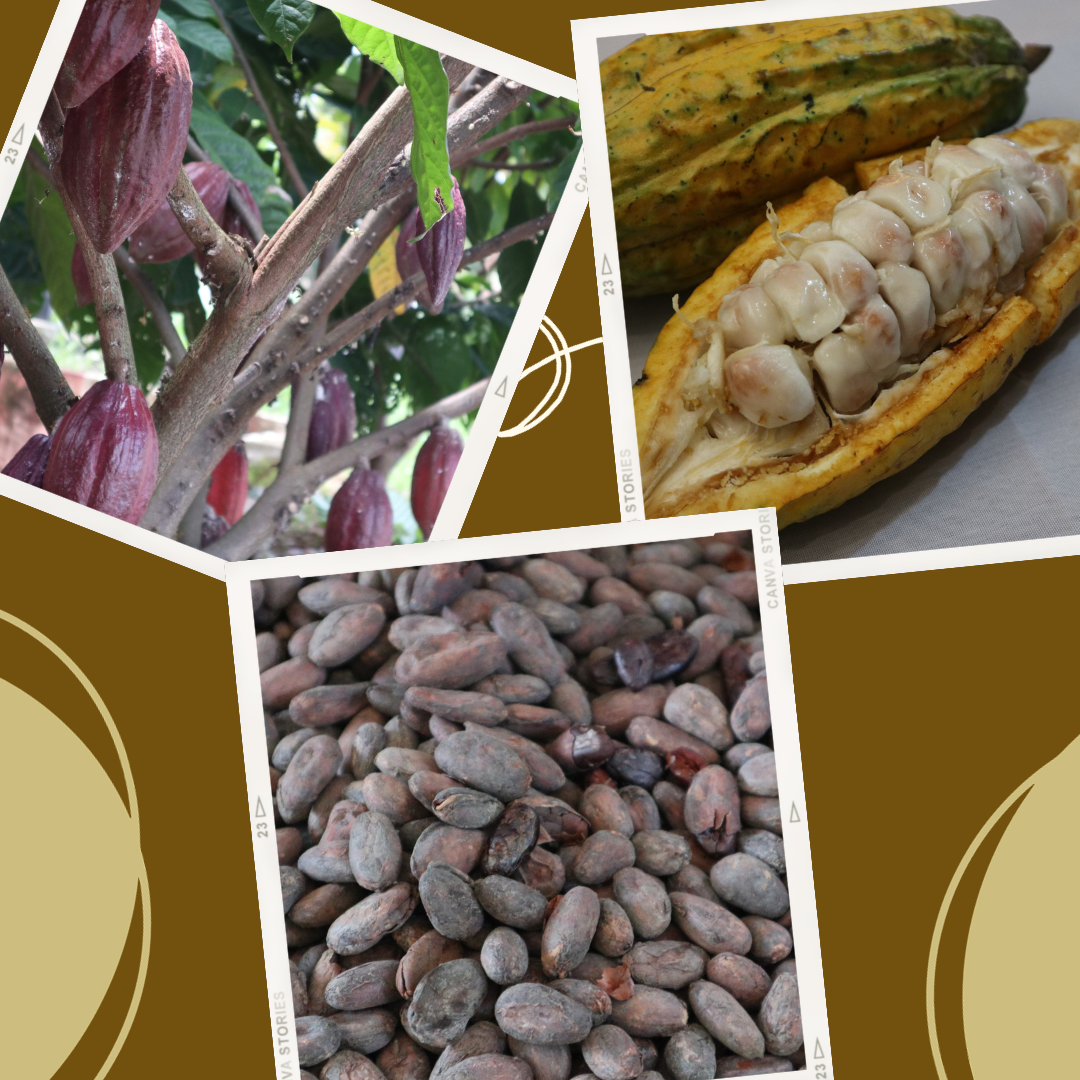
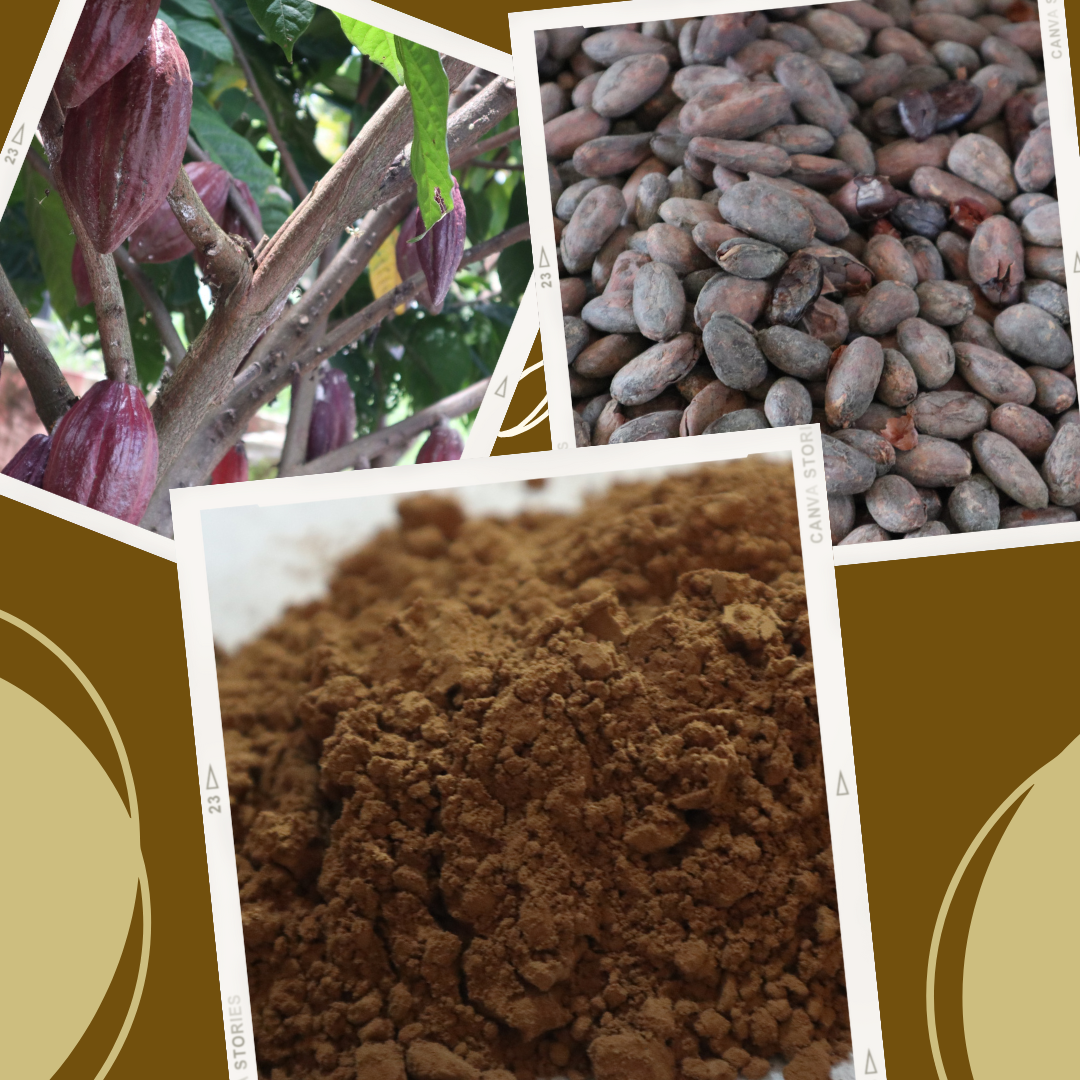
Mengubah isi konten Produk dan Service serta mengubah foto cocoa powder di halaman index dan id

diff --git a/id.html b/id.html
@@ -433,10 +433,10 @@
                                 </div>
                                 <div class="image-content">
                                     <h2 class="text-primary">
-                                        Sapu Lidi
+                                        Sapu Lidi (Kelapa dan Palem)
                                     </h2>
                                     <div class="description">
-                                        <p>Di Wambeso Ekspor, kami bangga menawarkan sapu berkualitas tinggi yang memadukan keahlian tradisional dengan standar modern. Sapu kami dibuat dengan cermat dari bahan yang tahan lama dan ramah lingkungan, memastikan kinerja luar biasa dan umur panjang. Kualifikasi sapu lidi yang kami tawarkan adalah panjang 100 cm dan jumlah 100 batang per ikat</p>
+                                        <p>Di Wambeso Ekspor, kami bangga menawarkan sapu lidi berkualitas tinggi yang menggabungkan keahlian tradisional dengan standar modern. Sapu lidi kami dibuat dengan cermat dari bahan yang tahan lama dan berkelanjutan, memastikan kinerja yang luar biasa dan umur yang panjang. Kualifikasi sapu lidi yang kami tawarkan adalah panjang: 100 cm, warna: coklat dan kuning kehijauan, kondisi: kering.</p>
                                     </div>
                                 </div>
                             </div>
@@ -449,10 +449,10 @@
                                 </div>
                                 <div class="image-content">
                                     <h2 class="text-primary">
-                                        Kakao
+                                        Bubuk Kakao
                                     </h2>
                                     <div class="description">
-                                        <p>Manjakan diri dengan cita rasa yang kaya dan tak tertahankan dari produk kakao premium kami dalam berbagai macam bubuk dan pasta di Wambeso Ekspor. Berasal dari perkebunan kakao terbaik, biji kakao kami dipanen dan diproses dengan hati-hati untuk mempertahankan rasa dan aroma aslinya. Mulai dari produsen coklat hingga pengrajin kuliner, kakao kami berfungsi sebagai bahan dasar pembuatan suguhan dan minuman.</p>
+                                        <p>Manjakan diri Anda dengan rasa yang kaya dan tak tertahankan dari produk bubuk kakao kami di Wambeso Export. Bersumber dari perkebunan kakao terbaik, biji kakao kami dipanen dan diproses dengan hati-hati untuk mempertahankan kadar antioksidan yang tinggi, dan kandungan lemak yang dapat mencegah penyakit kardiovaskular serta mempertahankan rasa dan aroma. Bubuk kakao kami dapat dinikmati mulai dari produsen cokelat hingga pengrajin kuliner, sebagai bahan dasar untuk membuat makanan dan minuman.</p>
                                     </div>
                                 </div>
                             </div>
@@ -465,10 +465,10 @@
                                 </div>
                                 <div class="image-content">
                                     <h2 class="text-primary">
-                                        Biji Kopi
+                                        Kopi (Biji dan Olahan)
                                     </h2>
                                     <div class="description">
-                                        <p>Bangkitkan indera Anda dengan kualitas olahan kopi yang luar biasa dari Wambeso Ekspor. Kami menghadirkan kepada Anda beragam biji kopi dengan profil rasa yang beragam, bersumber dari daerah penghasil biji kopi terbaik di seluruh Papua. Sediaan kopi kami dipilih dari biji kopi terbaik, diproses dengan cermat, dipanggang hingga sempurna, dan dikemas untuk menjaga kesegaran. Baik Anda penikmat kopi, pemilik kafe, atau penggila kopi, kopi kami menjanjikan pengalaman menyenangkan dan aromatik di setiap cangkirnya.</p>
+                                        <p>Bangkitkan indera perasa Anda dengan kualitas kopi olahan yang luar biasa dari Wambeso Export. Kami mempersembahkan kepada Anda berbagai jenis biji kopi arabika dan robusta, masing-masing dengan profil rasa yang beragam, yang berasal dari daerah penghasil biji kopi terbaik di seluruh Papua. Biji kopi kami dipilih dari biji kopi terbaik, diproses dengan cermat, dipanggang dengan sempurna, dan dikemas untuk menjaga kesegarannya. Apakah Anda seorang penikmat kopi, pemilik kafe, atau penggemar, kopi kami menjanjikan pengalaman yang menyenangkan dan aromatik di setiap cangkirnya.</p>
                                     </div>
                                 </div>
                             </div>

diff --git a/index.html b/index.html
@@ -467,10 +467,10 @@
                                 </div>
                                 <div class="image-content">
                                     <h2 class="text-primary">
-                                        Broom Stick
+                                        Broomstick (Coconut and Palm)
                                     </h2>
                                     <div class="description">
-                                        <p>At Wambeso Ekspor, we pride ourselves on offering high quality broomsticks that combine traditional craftsmanship with modern standards. Our Broom Sticks are meticulously crafted from durable and sustainable materials, ensuring outstanding performance and longevity. The qualifications of the broom sticks we offer are 100 cm long and the amount of 100 sticks per bunch</p>
+                                        <p>At Wambeso Ekspor, we pride ourselves on offering high quality broomsticks that combine traditional craftsmanship with modern standards. Our Broomsticks are meticulously crafted from durable and sustainable materials, ensuring outstanding performance and longevity. The qualifications of the broom sticks we offer are length : 100 cm, colors : brown and yellow greenish, condition : well dried.</p>
                                     </div>
                                 </div>
                             </div>
@@ -483,10 +483,10 @@
                                 </div>
                                 <div class="image-content">
                                     <h2 class="text-primary">
-                                        Cacao
+                                        Cocoa Powder
                                     </h2>
                                     <div class="description">
-                                        <p>Indulge in the rich and irresistible taste of our premium cocoa products in a wide range of powders and pastes at Wambeso Ekspor. Sourced from the finest cocoa farms, our cocoa beans are carefully harvested and processed to retain their authentic flavor and aroma. From chocolate producers to culinary artisans, our cocoa serves as the basis for creating treats and beverages.</p>
+                                        <p>Indulge in the rich and irresistible flavor of our cocoa powder products at Wambeso Export. Sourced from the finest cocoa farms, our cocoa beans are carefully harvested and processed to maintain high levels of antioxidants, and fat content that can prevent cardiovascular disease and preserve flavor and aroma. Our cocoa powder can be enjoyed from chocolate manufacturers to culinary artisans, serving as the basis for creating treats and beverages.</p>
                                     </div>
                                 </div>
                             </div>
@@ -499,10 +499,10 @@
                                 </div>
                                 <div class="image-content">
                                     <h2 class="text-primary">
-                                        Coffee Beans
+                                        Coffee (Beans and Processed)
                                     </h2>
                                     <div class="description">
-                                        <p>Awaken your senses with the exceptional quality of processed coffee from Wambeso Ekspor. We bring you a variety of coffee beans, each with a diverse flavour profile, sourced from the best coffee bean producing regions throughout Papua. Our coffee preparations are selected from the finest coffee beans, meticulously processed, roasted to perfection, and packaged to seal freshness. Whether you're a coffee connoisseur, café owner or enthusiast, our coffee promises a delightful and aromatic experience in every cup.</p>
+                                        <p>Awaken your senses with the exceptional quality of processed coffee from Wambeso Export. We bring you a range of arabica and robusta coffee beans, each with a diverse flavour profile, sourced from the best coffee bean producing regions throughout Papua. We are selected from the finest coffee beans, meticulously processed, roasted to perfection, and packaged to seal freshness. Whether you're a coffee connoisseur, café owner or enthusiast, our coffee promises a delightful and aromatic experience in every cup.</p>
                                     </div>
                                 </div>
                             </div>
